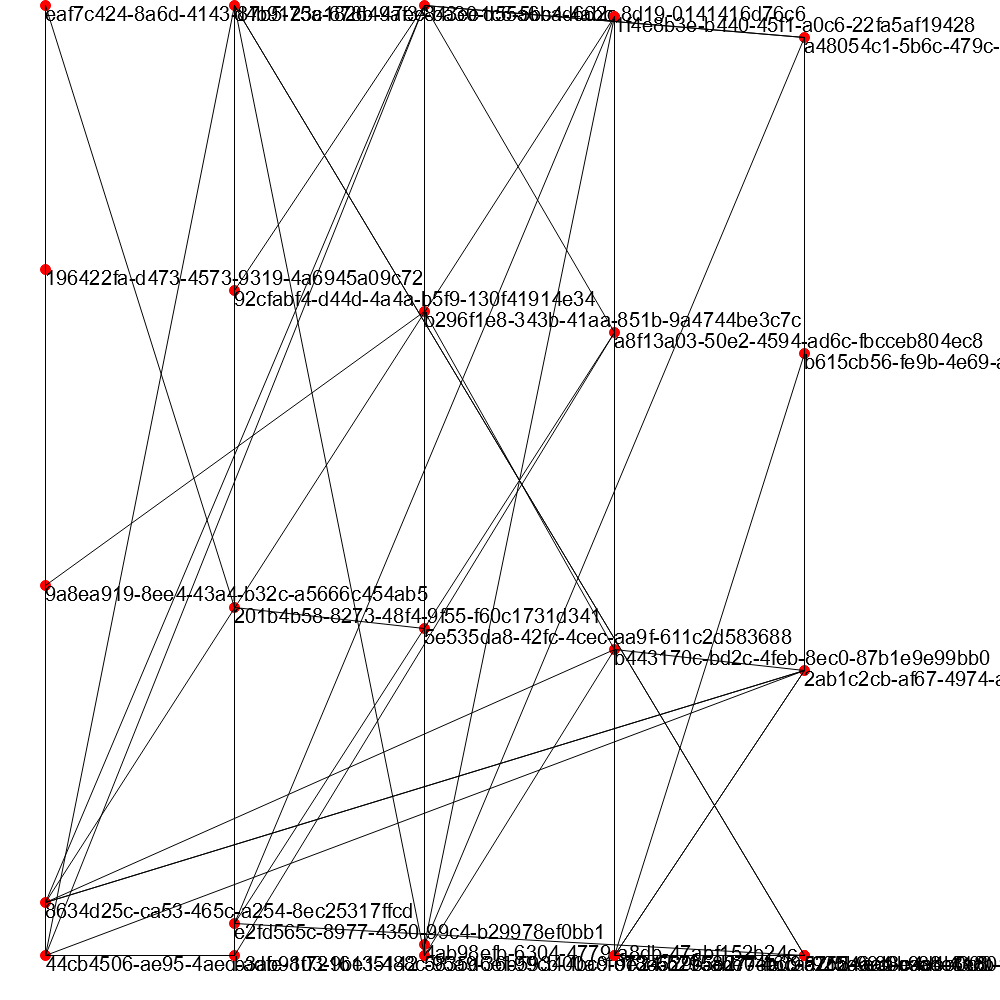
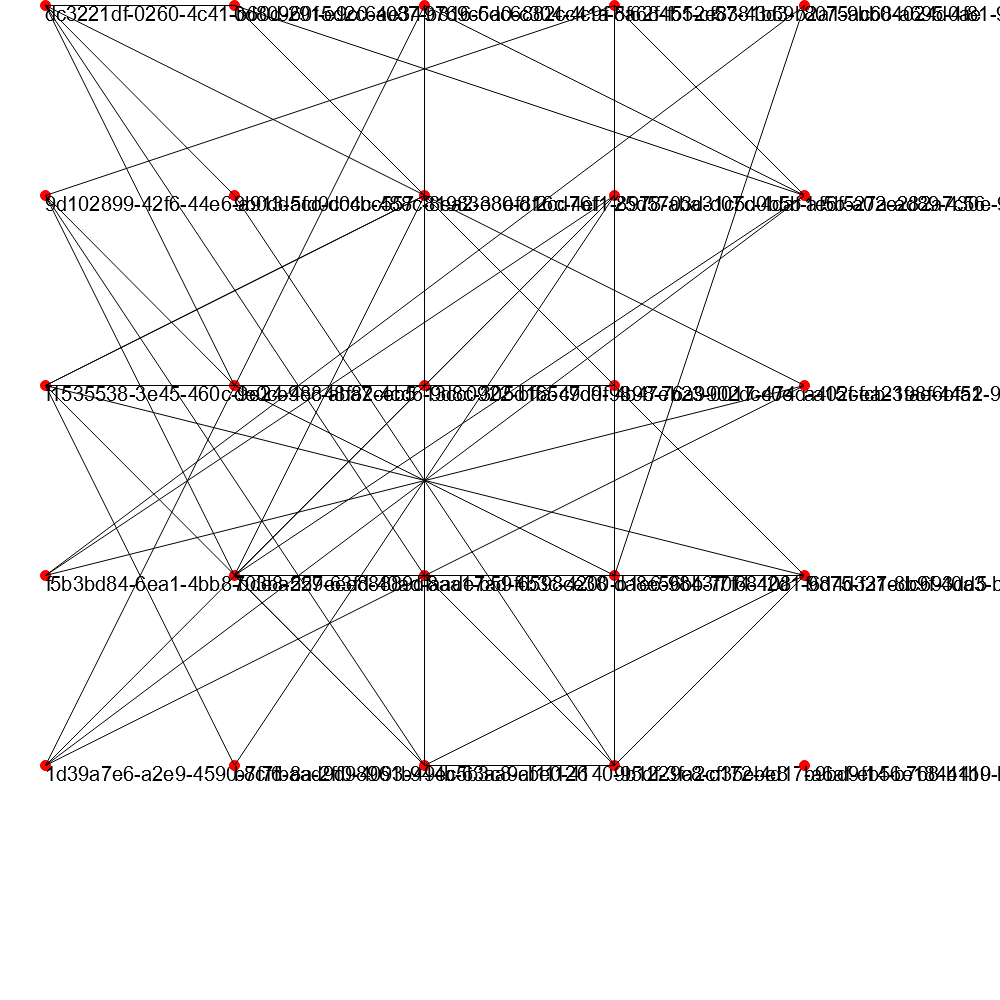
more graph stuff

diff --git a/graph/src/main.rs b/graph/src/main.rs
@@ -208,7 +208,7 @@ impl Graph {
 fn main() {
     let mut graph = Graph::new_random(25, 50);
     graph.force_directed_layout(10000000);
-    let _ = visualize_graph(&mut graph);
+    let _ = graph.visualize();
     for _ in 0..10 {
         let source_id = graph.get_random_node();
         let target_id = graph.get_random_node();
@@ -232,58 +232,4 @@ fn main() {
     //     "{graph_json}",
     //     graph_json = serde_json::to_string_pretty(&graph).unwrap()
     // );
-}
-
-fn visualize_graph(graph: &mut Graph) -> Result<(), Box<dyn std::error::Error>> {
-    let size = 1000;
-    // Create a drawing area
-    let root = BitMapBackend::new("graph.png", (size as u32, size as u32)).into_drawing_area();
-    root.fill(&WHITE)?;
-
-    // Create a chart context
-    let mut chart = ChartBuilder::on(&root)
-        .x_label_area_size(40)
-        .y_label_area_size(40)
-        .margin(5)
-        .build_cartesian_2d(-1f64..1f64, -1f64..1f64)?;
-
-    // Plot nodes as scatter points
-    for node in &mut graph.nodes {
-        let NodeMetaData { position: (x, y) } = node.meta;
-        chart.draw_series(PointSeries::of_element(
-            vec![(*x, *y)],
-            5,
-            &RED,
-            &|c, s, st| {
-                return EmptyElement::at(c) // We want the point to be at (x, y)
-                        + Circle::new((0, 0), s, st.filled()) // And a circle that is 2 pixels large
-                        + Text::new(
-                        format!("{}", node.id), // Convert the UUID to a string and display it
-                        (0, 0), // Adjust the position to display below the point
-                        ("sans-serif", 25.0).into_font(),
-                    ); // Add text below the point
-            },
-        ))?;
-    }
-
-    for edge in &graph.edges {
-        let source_pos = graph
-            .nodes
-            .get(*graph.node_lookup.get(&edge.incoming).unwrap())
-            .unwrap()
-            .meta
-            .position;
-        let target_pos = graph
-            .nodes
-            .get(*graph.node_lookup.get(&edge.outgoing).unwrap())
-            .unwrap()
-            .meta
-            .position;
-        let source_pos = (*source_pos.0, *source_pos.1);
-        let target_pos = (*target_pos.0, *target_pos.1);
-        chart.draw_series(LineSeries::new(vec![source_pos, target_pos], &BLACK))?;
-    }
-    // Export the plot as an image
-    root.present()?;
-    Ok(())
 }

diff --git a/graph/src/visualize/mod.rs b/graph/src/visualize/mod.rs
@@ -11,19 +11,19 @@ use plotters::{
 use crate::{Graph, NodeMetaData};
 
 impl Graph {
-    pub fn visualize_graph(&self) -> Result<(), Box<dyn std::error::Error>> {
-        self.visualize_graph_with_path("graph.png")
+    pub fn visualize(&self) -> Result<(), Box<dyn std::error::Error>> {
+        self.visualize_with_path("graph.png")
     }
-    pub fn visualize_graph_with_path(&self, path: &str) -> Result<(), Box<dyn std::error::Error>> {
+    pub fn visualize_with_path(&self, path: &str) -> Result<(), Box<dyn std::error::Error>> {
         let size = 1000;
         // Create a drawing area
         let root = BitMapBackend::new(path, (size as u32, size as u32)).into_drawing_area();
         root.fill(&WHITE)?;
-        self.draw_graph_on_backend(&root)?;
+        self.draw_on_backend(&root)?;
         root.present()?;
         Ok(())
     }
-    pub fn draw_graph_on_backend<DB: DrawingBackend>(
+    pub fn draw_on_backend<DB: DrawingBackend>(
         &self,
         root: &DrawingArea<DB, Shift>,
     ) -> Result<(), Box<dyn std::error::Error>>
@@ -37,11 +37,11 @@ impl Graph {
             .margin(5)
             .build_cartesian_2d(-1f64..1f64, -1f64..1f64)?;
 
-        self.draw_graph_on_chart(&mut chart)?;
+        self.draw_on_chart(&mut chart)?;
         // Export the plot as an image
         Ok(())
     }
-    pub fn draw_graph_on_chart<DB: DrawingBackend>(
+    pub fn draw_on_chart<DB: DrawingBackend>(
         &self,
         chart: &mut ChartContext<'_, DB, Cartesian2d<RangedCoordf64, RangedCoordf64>>,
     ) -> Result<(), Box<dyn std::error::Error>>

diff --git a/graph/src/force/mod.rs b/graph/src/force/mod.rs
@@ -7,8 +7,8 @@ use rand::Rng;
 use uuid::Uuid;
 
 impl Graph {
-    const REPULSION_STRENGTH: OrderedFloat<f64> = OrderedFloat(0.001);
-    const SPRING_STIFFNESS: OrderedFloat<f64> = OrderedFloat(0.0005);
+    const REPULSION_STRENGTH: OrderedFloat<f64> = OrderedFloat(0.0001);
+    const SPRING_STIFFNESS: OrderedFloat<f64> = OrderedFloat(0.005);
     const INITIAL_ALPHA: OrderedFloat<f64> = OrderedFloat(0.95);
     const ALPHA_DECREASE: OrderedFloat<f64> = OrderedFloat(0.005);
 
@@ -90,7 +90,7 @@ impl Graph {
             let id = self.nodes[node_index].id;
             println!("Node {id} got an initial position of {x}, {y}");
         }
-        self.visualize_graph_with_path("initial.png");
+        self.visualize_with_path("initial.png");
 
         let mut old_pos: HashMap<Uuid, (OrderedFloat<f64>, OrderedFloat<f64>)> = HashMap::new();
 

diff --git a/yew-graph/src/main.rs b/yew-graph/src/main.rs
@@ -82,6 +82,7 @@ impl Component for App {
             update_plot();
             initialized_canvas = true;
         }
+
         true
     }
 
@@ -95,7 +96,7 @@ impl Component for App {
                 <main>
                     <h1>{"Plotters and Yew Demo"}</h1>
                     <div id={"coord"}></div>
-                    <canvas id={"canvas"} width={"600"} height={"400"} ref={state.canvas_ref}></canvas>
+                    <canvas id={"canvas"} width={"1000"} height={"1000"} ref={state.canvas_ref}></canvas>
                     <div id={"status"} ref={state.status_ref}>{"Loading Plotters..."}</div>
                     <div id={"control"}>
                         <label for={"plot-type"}>{"Demo: "}</label>
